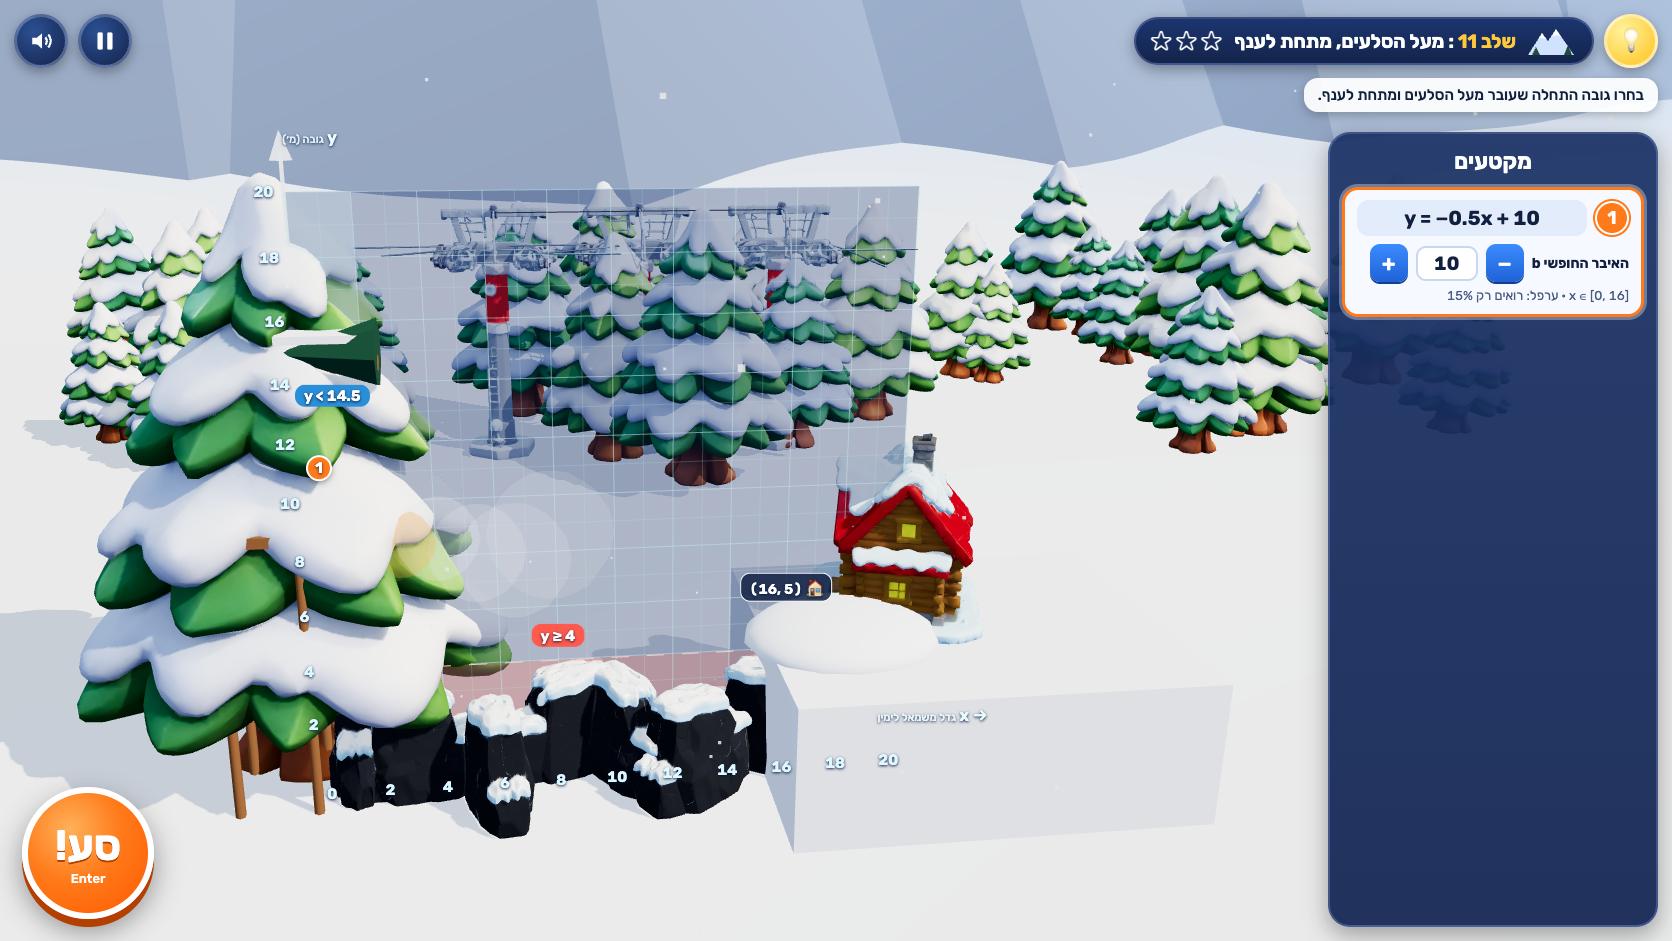
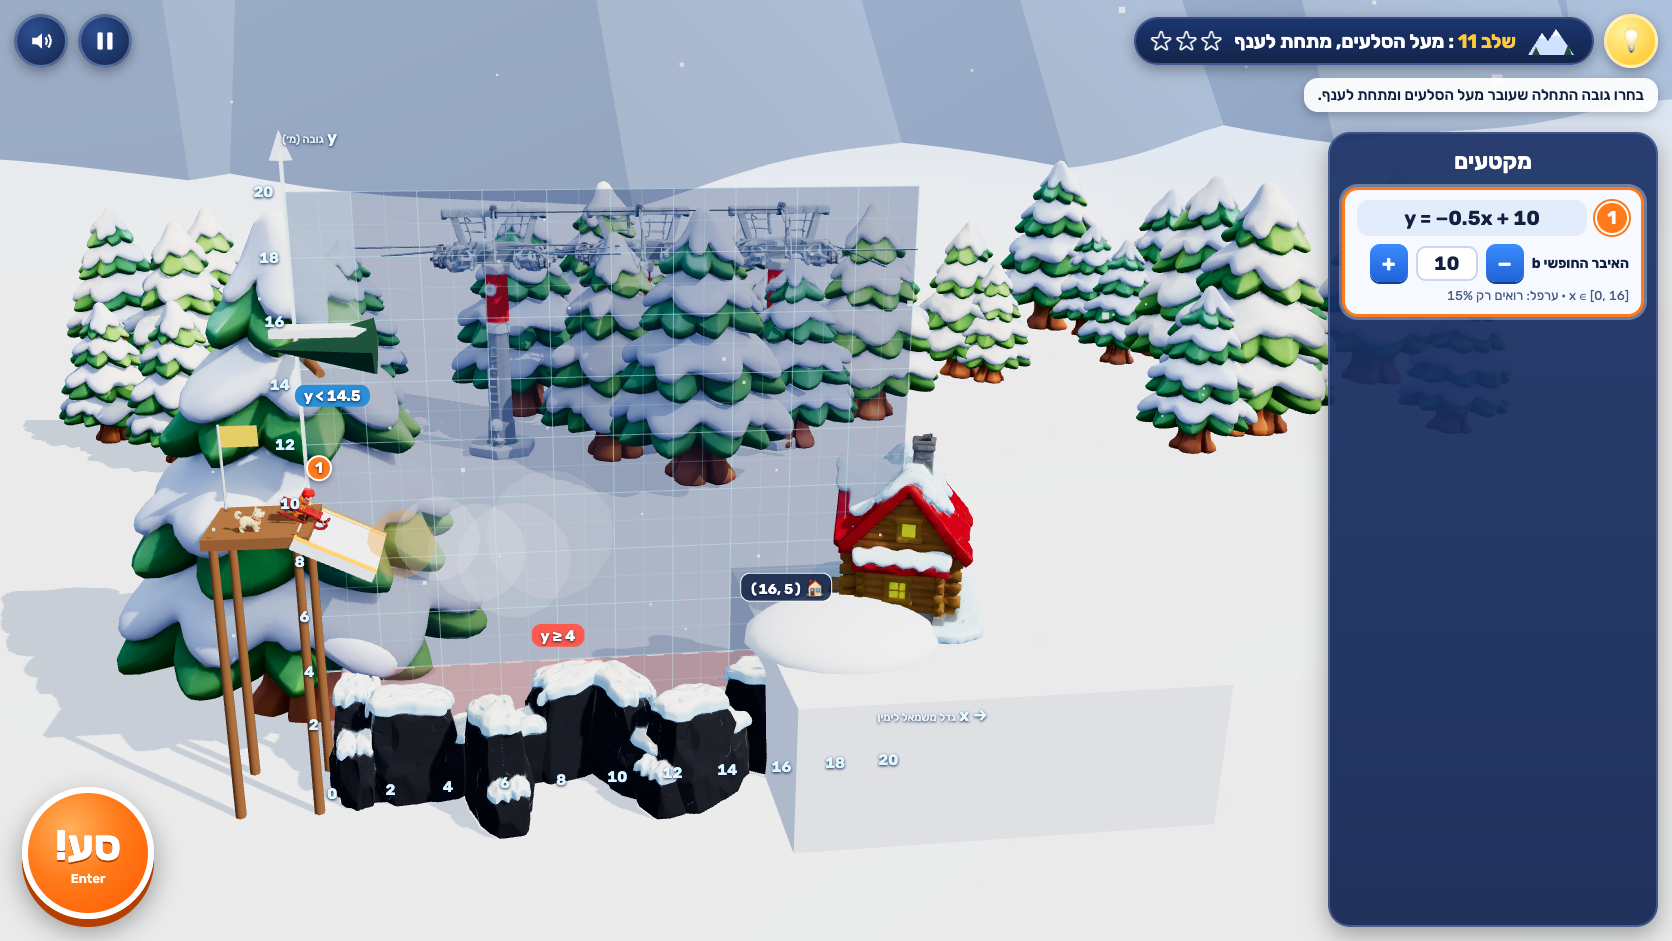
Wipeout marker matches the explained worst point

Changed region(s): [[0.0, 0.1849, 0.311, 0.8629]]

diff --git a/src/game/game.ts b/src/game/game.ts
@@ -441,7 +441,8 @@ export class Game {
       if (o.reason === 'hazard') {
         const h = o.hazard;
         this.course.drawTrack(tr, { mode: 'replay', fullPreview: false, selected: -1, badSeg: h.seg });
-        this.course.showMarker(h.x, h.trackY, ['never-met', 'not-tandem', 'tangled'].includes(h.kind) ? null : h.needY);
+        const w = h.worst ?? { x: h.x, trackY: h.trackY, needY: h.needY };
+        this.course.showMarker(w.x, w.trackY, ['never-met', 'not-tandem', 'tangled'].includes(h.kind) ? null : w.needY);
       } else {
         this.course.drawTrack(tr, { mode: 'replay', fullPreview: false, selected: -1, badSeg: o.seg });
         this.course.showMarker(o.x, o.y, null);
